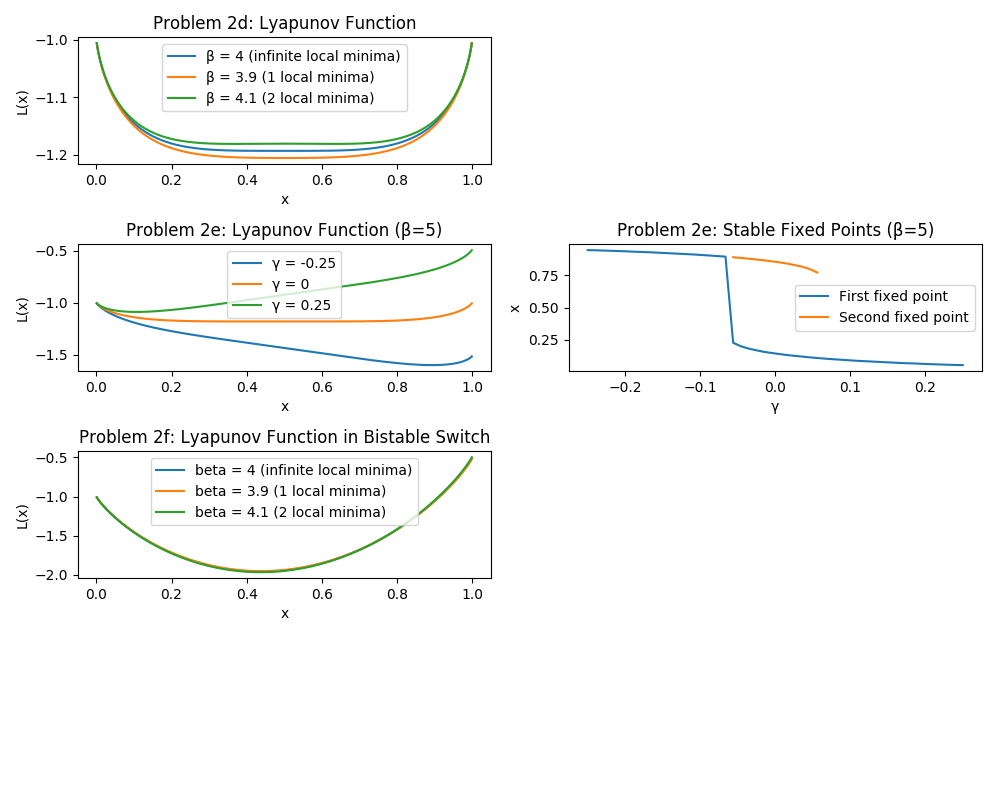
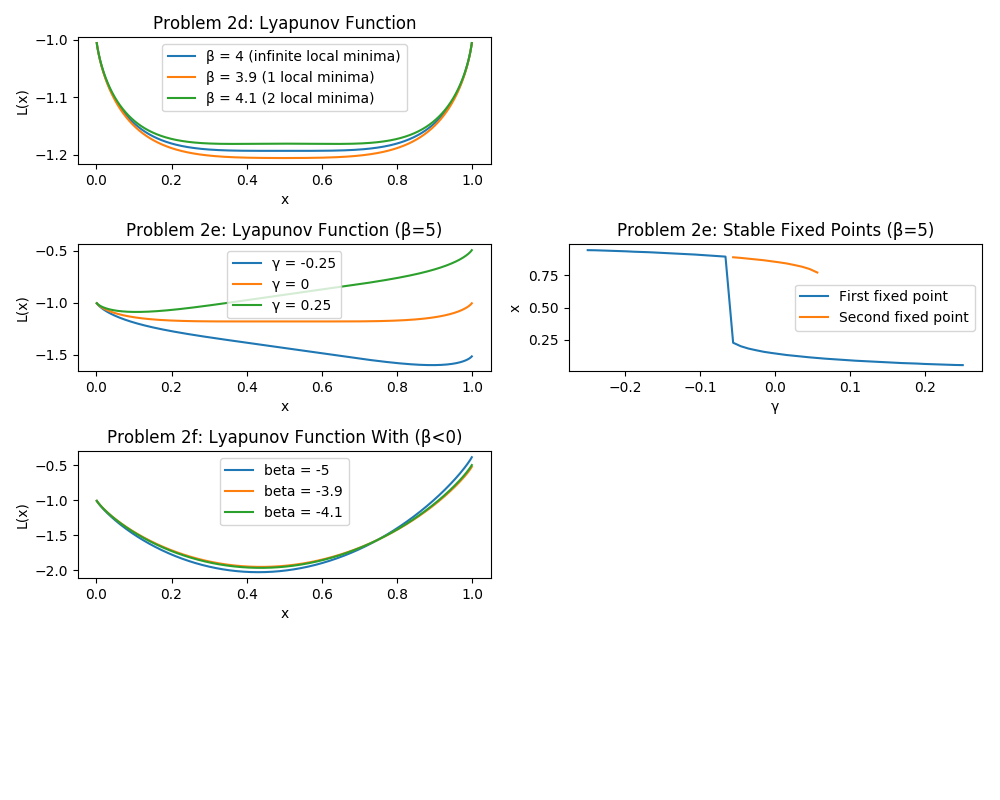
Add updated eigenvalue plot

diff --git a/problem-sets/ps4/problem4.py b/problem-sets/ps4/problem4.py
@@ -28,35 +28,80 @@ def eigenvalues(j_range, c):
 
 
 def main():
-    N = 100
-    c = np.zeros(N)
-    c_val = 1
-    c[1] = c_val
-    c[N-1] = c_val
+    N = 20
     j = np.arange(0, N)
 
-    print(circulant(c))
-    print(la.eigvals(circulant(c)).argsort()[::-1])
+    c = np.zeros(N)
+    
+    # print(la.eigvals(circulant(c)).argsort()[::-1])
 
-    x = np.linspace(0, 1, 1000)
     plt.figure(1, figsize=(10, 8))
     plt.subplot(421)
     plt.title("Problem 4a: Eigenvalue Spectrum, N=" + str(N))
-    plt.ylabel("Eigenvalue")
+    plt.ylabel("Eigenvalues λ^2")
     plt.xlabel("Index (j)")
-    plt.plot(j, la.eigvals(circulant(c)).argsort()[::-1], label="c=" + str(c_val))
-    c_val = 2
+
+    c_val = 0.99
     c[1] = c_val
     c[N-1] = c_val
-    plt.plot(j, la.eigvals(circulant(c)).argsort()[::-1], label="c=" + str(c_val))
+    print(circulant(c))
+    eigenvalues, eigenvectors = la.eig(circulant(c))
+    idx = eigenvalues.argsort()[::-1]
+    eigenvalues = eigenvalues[idx]
+    eigenvectors = eigenvectors[:,idx]
+    plt.plot(j, eigenvalues * eigenvalues, label="c=" + str(c_val))
+
+    c_val = -1
+    c[1] = c_val
+    c[N-1] = c_val
+    eigenvalues, eigenvectors = la.eig(circulant(c))
+    idx = eigenvalues.argsort()[::-1]
+    eigenvalues = eigenvalues[idx]
+    eigenvectors = eigenvectors[:,idx]
+    plt.plot(j, eigenvalues * eigenvalues, label="c=" + str(c_val))
+
+    c_val = 0.75
+    c[1] = c_val
+    c[N-1] = c_val
+    eigenvalues, eigenvectors = la.eig(circulant(c))
+    idx = eigenvalues.argsort()[::-1]
+    eigenvalues = eigenvalues[idx]
+    eigenvectors = eigenvectors[:,idx]
+    plt.plot(j, eigenvalues * eigenvalues, label="c=" + str(c_val))
+
     c_val = -2
     c[1] = c_val
     c[N-1] = c_val
-    plt.plot(j, la.eigvals(circulant(c)).argsort()[::-1], label="c=" + str(c_val))
-    c_val = -200
+    eigenvalues, eigenvectors = la.eig(circulant(c))
+    idx = eigenvalues.argsort()[::-1]
+    eigenvalues = eigenvalues[idx]
+    eigenvectors = eigenvectors[:,idx]
+    plt.plot(j, eigenvalues * eigenvalues, label="c=" + str(c_val))
+
+    c_val = 0.5
     c[1] = c_val
     c[N-1] = c_val
-    plt.plot(j, la.eigvals(circulant(c)).argsort()[::-1], label="c=" + str(c_val))
+    eigenvalues, eigenvectors = la.eig(circulant(c))
+    idx = eigenvalues.argsort()[::-1]
+    eigenvalues = eigenvalues[idx]
+    eigenvectors = eigenvectors[:,idx]
+    plt.plot(j, eigenvalues * eigenvalues, label="c=" + str(c_val))
+
+    # c_val = -5
+    # c[1] = c_val
+    # c[N-1] = c_val
+    # eigenvalues, eigenvectors = la.eig(circulant(c))
+    # idx = eigenvalues.argsort()[::-1]
+    # eigenvalues = eigenvalues[idx]
+    # eigenvectors = eigenvectors[:,idx]
+    # plt.plot(j, eigenvalues * eigenvalues, label="c=" + str(c_val))
+
+    c_val = -0.5
+    eigenvalues, eigenvectors = la.eig(circulant(c))
+    idx = eigenvalues.argsort()[::-1]
+    eigenvalues = eigenvalues[idx]
+    eigenvectors = eigenvectors[:,idx]
+    print(eigenvalues * eigenvalues)
     # plt.plot(x, L(x, beta, gamma), label="β = 4 (infinite local minima)")
     # beta = 3.9
     # plt.plot(x, L(x, beta, gamma), label="β = 3.9 (1 local minima)")
@@ -68,7 +113,7 @@ def main():
 
 
     plt.tight_layout()
-    plt.savefig("problem3.png")
+    plt.savefig("problem4.png")
     plt.show()
     
 

diff --git a/problem-sets/ps4/problem2.py b/problem-sets/ps4/problem2.py
@@ -94,19 +94,19 @@ def main():
     # 2-D Space
 
     plt.subplot(425)
-    plt.title("Problem 2f: Lyapunov Function in Bistable Switch")
+    plt.title("Problem 2f: Lyapunov Function With (β<0)")
     plt.ylabel("L(x)")
-    x1 = np.linspace(0, 1)
-    x2 = np.linspace(0, 1)
-    x = np.meshgrid(x1, x2)
-    print(x)
-    beta = -4
+    # x1 = np.linspace(0, 1)
+    # x2 = np.linspace(0, 1)
+    # x = np.meshgrid(x1, x2)
+    # print(x)
+    beta = -5
     plt.xlabel("x")
-    plt.plot(x, L_mat(x, beta, gamma), label="beta = 4 (infinite local minima)")
+    plt.plot(x, L(x, beta, gamma), label="beta = " + str(beta))
     beta = -3.9
-    plt.plot(x, L_mat(x, beta, gamma), label="beta = 3.9 (1 local minima)")
+    plt.plot(x, L(x, beta, gamma), label="beta = " + str(beta))
     beta = -4.1
-    plt.plot(x, L_mat(x, beta, gamma), label="beta = 4.1 (2 local minima)")
+    plt.plot(x, L(x, beta, gamma), label="beta = " + str(beta))
     plt.legend()
 
 
